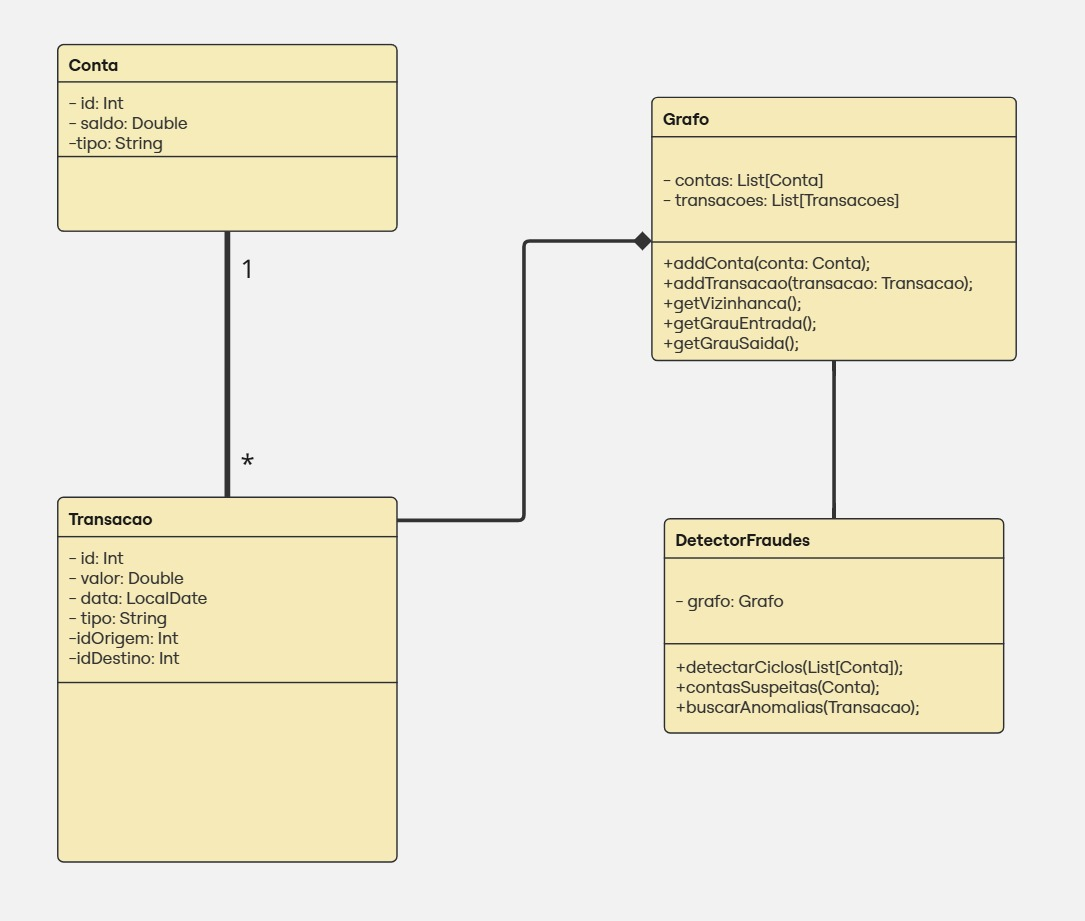
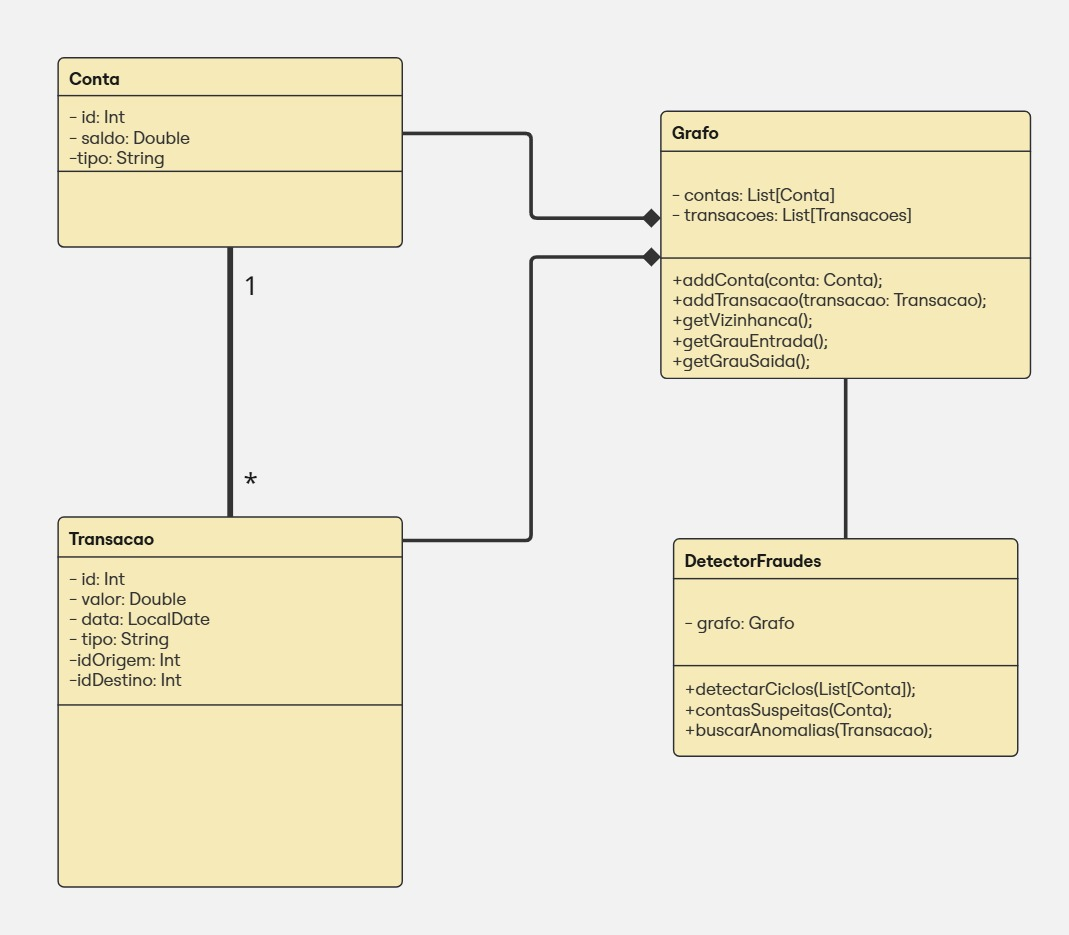
Adicionando inicio das classes

Changed region(s): [[0.0309, 0.0304, 0.9878, 0.9729]]

diff --git a/Code/fraude_detector/models/transacao.py b/Code/fraude_detector/models/transacao.py
@@ -1,0 +1,11 @@
+from datetime import datetime
+
+class Transacao:
+    def __init__(self, id: int, valor: float, data: datetime, tipo: str, id_origem: int, id_destino: int):
+        self.id = id
+        self.valor = valor
+        self.tipo = tipo
+        self.data = data
+        self.id_origem = id_origem
+        self.id_destino = id_destino
+        

diff --git a/Code/fraude_detector/models/grafo.py b/Code/fraude_detector/models/grafo.py
@@ -1,0 +1,6 @@
+from transacao import Transacao
+from conta import Conta
+class Grafo:
+    def __init__(self, conta: list[Conta], transacao: list[Transacao]):
+        self.conta = []
+        self.transacao= []

diff --git a/Code/fraude_detector/models/conta.py b/Code/fraude_detector/models/conta.py
@@ -1,0 +1,5 @@
+class Conta:
+    def __init__(self, id: int, saldo: float, tipo: str):
+        self.id = id
+        self.saldo = saldo
+        self.tipo = tipo
